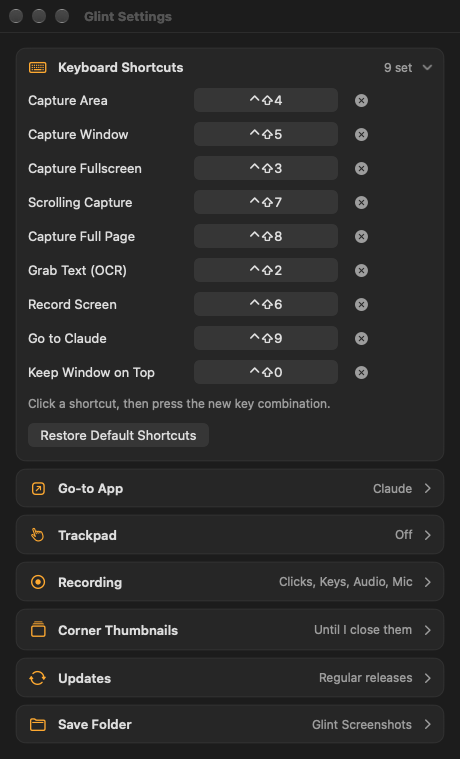
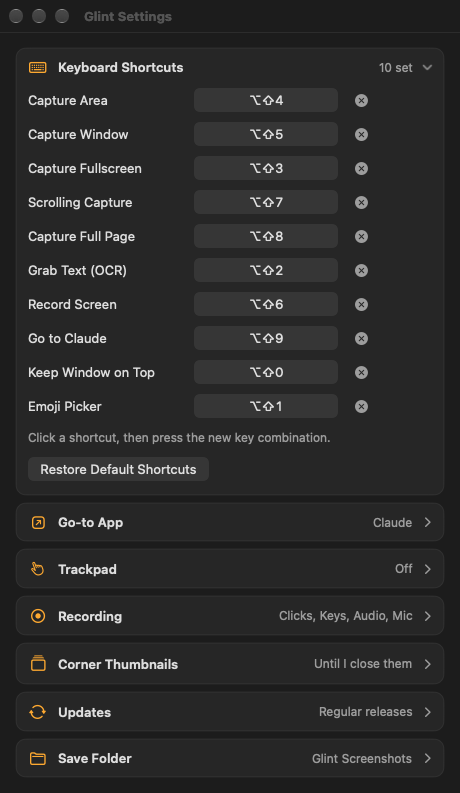
Version 0.2.5: Emoji Picker, Option-Shift default shortcuts

diff --git a/README.md b/README.md
@@ -100,7 +100,8 @@ Arrows, boxes, highlights, numbered steps, text, pixelate and crop. Every mark s
 ## 📌 And the small things
 
 **Quick access** · every shot waits in the corner: drag it anywhere, or hover for Copy, Annotate and Pin.<br>
-**Keep on top** · press ⌃⇧0 and click any window to lock it above everything, even other apps.<br>
+**Keep on top** · press ⌥⇧0 and click any window to lock it above everything, even other apps.<br>
+**Emoji picker** · ⌥⇧1 (or the popup) opens the emoji picker at the text box you're typing in, in any app.<br>
 **Trackpad edges** · slide one finger down the left edge for volume, the right edge for brightness; hold a top corner to run an action.<br>
 **Pins** · float a screenshot above every window, fade it, or make it click-through.<br>
 **History** · 30 days of captures, one click from the menu bar.<br>
@@ -116,15 +117,16 @@ Arrows, boxes, highlights, numbered steps, text, pixelate and crop. Every mark s
 
 | Shortcut | Action |
 |---|---|
-| ⌃⇧4 | Capture area |
-| ⌃⇧5 | Capture window |
-| ⌃⇧3 | Capture fullscreen |
-| ⌃⇧7 | Scrolling capture |
-| ⌃⇧8 | Capture full page |
-| ⌃⇧2 | Grab text |
-| ⌃⇧6 | Start or stop a recording |
-| ⌃⇧9 | Go to Claude (or the app you pick) |
-| ⌃⇧0 | Keep a window on top |
+| ⌥⇧4 | Capture area |
+| ⌥⇧5 | Capture window |
+| ⌥⇧3 | Capture fullscreen |
+| ⌥⇧7 | Scrolling capture |
+| ⌥⇧8 | Capture full page |
+| ⌥⇧2 | Grab text |
+| ⌥⇧6 | Start or stop a recording |
+| ⌥⇧9 | Go to Claude (or the app you pick) |
+| ⌥⇧0 | Keep a window on top |
+| ⌥⇧1 | Emoji picker, right where you're typing |
 
 Esc cancels any selection. Change any shortcut in Settings.
 
